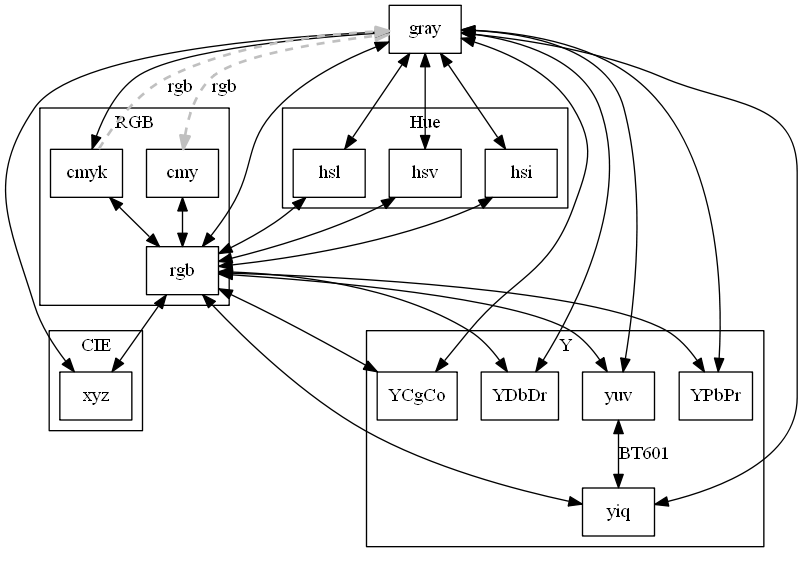
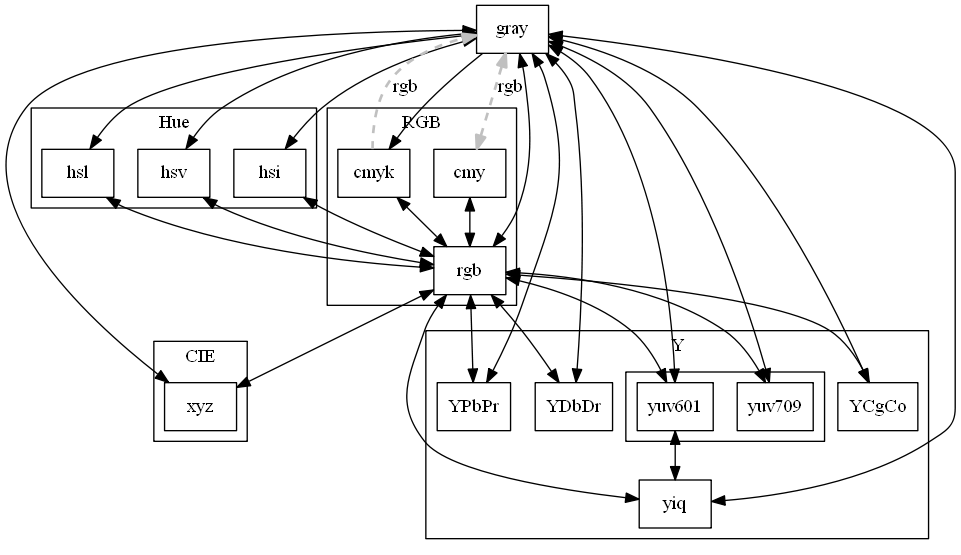
* enhance:[internal] More efficient conversion yiq <->yuv601 . * enhance:[doc] Conversion graph. Split YUV variants. * update: [internal] color.pp2f.hpp

diff --git a/src/color/color.pp2f.hpp b/src/color/color.pp2f.hpp
@@ -16109,6 +16109,9 @@ public:
 	typedef ::color::yuv< scalar_type, ::color::constant::yuv::BT_601_entity> yuv_scalar_type;
 	typedef ::color::yiq< scalar_type > yiq_scalar_type;
 
+	typedef typename yuv_scalar_type::category_type yuv_scalar_category_type;
+	typedef typename yiq_scalar_type::category_type yiq_scalar_category_type;
+
 	typedef ::color::model< yuv_category_type > yuv_model_type;
 	typedef ::color::model< yiq_category_type > yiq_model_type;
 
@@ -16120,6 +16123,9 @@ public:
 
 	typedef typename container_left_trait_type::input_type container_left_input_type;
 	typedef typename container_right_trait_type::input_const_type container_right_const_input_type;
+
+	typedef ::color::_internal::reformat< category_left_type, yuv_scalar_category_type, scalar_type > reformat_yuv_type;
+	typedef ::color::_internal::reformat< yiq_scalar_category_type, category_right_type, scalar_type > reformat_yiq_type;
 
 	enum {
 		luma_p = ::color::place::_internal::luma<category_right_type>::position_enum
@@ -16134,20 +16140,20 @@ public:
 	) {
 		static scalar_type sin_33 = sin(33 *(3.14159265358979323846 / 180));
 		static scalar_type cos_33 = cos(33 *(3.14159265358979323846 / 180));
-		yiq_scalar_type yiq{ yiq_model_type(right) };
-		scalar_type y = yiq.template get<0>();
-		scalar_type i = yiq.template get<1>();
-		scalar_type q = yiq.template get<2>();
+		scalar_type y = reformat_yiq_type::template process<0, luma_p>(container_right_trait_type::template get< luma_p>(right));
+		scalar_type i = reformat_yiq_type::template process<1, inphase_p>(container_right_trait_type::template get< inphase_p>(right));
+		scalar_type q = reformat_yiq_type::template process<2,quadrature_p>(container_right_trait_type::template get<quadrature_p>(right));
 		y = y;
 		scalar_type u = - i * sin_33 + q * cos_33;
 		scalar_type v = i * cos_33 + q * sin_33;
-		left = yuv_model_type{ yuv_scalar_type({ y, u,v }) } .container();
+		container_left_trait_type::template set<0>(left, reformat_yuv_type::template process<0,0>(y));
+		container_left_trait_type::template set<1>(left, reformat_yuv_type::template process<1,1>(u));
+		container_left_trait_type::template set<2>(left, reformat_yuv_type::template process<2,2>(v));
 	}
 };
 
 }
 }
-
 namespace color {
 namespace _internal {
 
@@ -16185,6 +16191,7 @@ public:
 		container_left_trait_type::template set<2>(left, reformat_type::template process<2,2>(container_right_trait_type::template get<2>(right)));
 	}
 };
+
 }
 }
 
@@ -23858,6 +23865,9 @@ public:
 	typedef ::color::yiq< scalar_type > yiq_scalar_type;
 	typedef ::color::yuv< scalar_type, ::color::constant::yuv::BT_601_entity> yuv_scalar_type;
 
+	typedef typename yiq_scalar_type::category_type yiq_scalar_category_type;
+	typedef typename yuv_scalar_type::category_type yuv_scalar_category_type;
+
 	typedef ::color::model< yiq_category_type > yiq_model_type;
 	typedef ::color::model< yuv_category_type > yuv_model_type;
 
@@ -23869,6 +23879,9 @@ public:
 
 	typedef typename container_left_trait_type::input_type container_left_input_type;
 	typedef typename container_right_trait_type::input_const_type container_right_const_input_type;
+
+	typedef ::color::_internal::reformat< category_left_type, yiq_scalar_category_type, scalar_type > reformat_yiq_type;
+	typedef ::color::_internal::reformat< yuv_scalar_category_type, category_right_type, scalar_type > reformat_yuv_type;
 
 	enum {
 		luma_p = ::color::place::_internal::luma<category_left_type>::position_enum
@@ -23883,14 +23896,15 @@ public:
 	) {
 		static scalar_type sin_33 = sin(33 *(3.14159265358979323846 / 180));
 		static scalar_type cos_33 = cos(33 *(3.14159265358979323846 / 180));
-		yuv_scalar_type yuv{ yuv_model_type(right) };
-		scalar_type y = yuv.template get<0>();
-		scalar_type u = yuv.template get<1>();
-		scalar_type v = yuv.template get<2>();
+		scalar_type y = reformat_yuv_type::template process<0,0>(container_right_trait_type::template get<0>(right));
+		scalar_type u = reformat_yuv_type::template process<1,1>(container_right_trait_type::template get<1>(right));
+		scalar_type v = reformat_yuv_type::template process<2,2>(container_right_trait_type::template get<2>(right));
 		y = y;
 		scalar_type i = - u * sin_33 + v * cos_33;
 		scalar_type q = u * cos_33 + v * sin_33;
-		left = yiq_model_type{ yiq_scalar_type({ y, i, q }) } .container();
+		container_left_trait_type::template set< luma_p>(left, reformat_yiq_type::template process< luma_p,0>(y));
+		container_left_trait_type::template set< inphase_p>(left, reformat_yiq_type::template process< inphase_p,1>(i));
+		container_left_trait_type::template set< quadrature_p>(left, reformat_yiq_type::template process<quadrature_p,2>(q));
 	}
 };
 

diff --git a/src/color/yuv/convert/yuv.hpp b/src/color/yuv/convert/yuv.hpp
@@ -19,43 +19,44 @@ namespace color
  {
   namespace _internal
    {
-        
+
     template
      <
        typename tag_left_name,  ::color::constant::yuv::reference_enum left_reference_number
       ,typename tag_right_name, ::color::constant::yuv::reference_enum right_reference_number
      >
      struct convert
-       <
-         ::color::category::yuv< tag_left_name,  left_reference_number >
-        ,::color::category::yuv< tag_right_name, right_reference_number>
-       >
-       {
-        public:
-          typedef ::color::category::yuv< tag_left_name , left_reference_number  > category_left_type;
-          typedef ::color::category::yuv< tag_right_name, right_reference_number > category_right_type;
+      <
+        ::color::category::yuv< tag_left_name,  left_reference_number >
+       ,::color::category::yuv< tag_right_name, right_reference_number>
+      >
+      {
+       public:
+         typedef ::color::category::yuv< tag_left_name , left_reference_number  > category_left_type;
+         typedef ::color::category::yuv< tag_right_name, right_reference_number > category_right_type;
 
-          typedef double scalar_type;
+         typedef double scalar_type;
 
-          typedef ::color::trait::container<category_left_type>     container_left_trait_type;
-          typedef ::color::trait::container<category_right_type>    container_right_trait_type;
+         typedef ::color::trait::container<category_left_type>     container_left_trait_type;
+         typedef ::color::trait::container<category_right_type>    container_right_trait_type;
 
-          typedef ::color::_internal::reformat< category_left_type, category_right_type, scalar_type >    reformat_type;
+         typedef ::color::_internal::reformat< category_left_type, category_right_type, scalar_type >    reformat_type;
 
-          typedef typename container_left_trait_type::input_type         container_left_input_type;
-          typedef typename container_right_trait_type::input_const_type  container_right_const_input_type;
+         typedef typename container_left_trait_type::input_type         container_left_input_type;
+         typedef typename container_right_trait_type::input_const_type  container_right_const_input_type;
 
-          static void process
-           (
-             container_left_input_type         left
-            ,container_right_const_input_type  right
-           )
-           {
-            container_left_trait_type::template set<0>( left, reformat_type::template process<0,0>( container_right_trait_type::template get<0>( right ) ) );
-            container_left_trait_type::template set<1>( left, reformat_type::template process<1,1>( container_right_trait_type::template get<1>( right ) ) );
-            container_left_trait_type::template set<2>( left, reformat_type::template process<2,2>( container_right_trait_type::template get<2>( right ) ) );
-           }
+         static void process
+          (
+            container_left_input_type         left
+           ,container_right_const_input_type  right
+          )
+          {
+           container_left_trait_type::template set<0>( left, reformat_type::template process<0,0>( container_right_trait_type::template get<0>( right ) ) );
+           container_left_trait_type::template set<1>( left, reformat_type::template process<1,1>( container_right_trait_type::template get<1>( right ) ) );
+           container_left_trait_type::template set<2>( left, reformat_type::template process<2,2>( container_right_trait_type::template get<2>( right ) ) );
+          }
         };
+
    }
  }
 

diff --git a/src/color/yuv/convert/yiq.hpp b/src/color/yuv/convert/yiq.hpp
@@ -2,6 +2,7 @@
 #define color_yuv_convert_yiq
 
 #include "../../_internal/convert.hpp"
+#include "../../_internal/reformat.hpp"
 
 #include "../category.hpp"
 
@@ -53,9 +54,9 @@ namespace color
         };
 
     template
-     < 
+     <
        typename yuv_tag_name
-      ,typename yiq_tag_name 
+      ,typename yiq_tag_name
      >
      struct convert
       <
@@ -69,7 +70,10 @@ namespace color
          typedef double  scalar_type;
 
          typedef ::color::yuv< scalar_type,  ::color::constant::yuv::BT_601_entity>  yuv_scalar_type;
-         typedef ::color::yiq< scalar_type > yiq_scalar_type;
+         typedef ::color::yiq< scalar_type >                                         yiq_scalar_type;
+
+         typedef typename yuv_scalar_type::category_type    yuv_scalar_category_type;
+         typedef typename yiq_scalar_type::category_type    yiq_scalar_category_type;
 
          typedef ::color::model< yuv_category_type >  yuv_model_type;
          typedef ::color::model< yiq_category_type > yiq_model_type;
@@ -82,6 +86,9 @@ namespace color
 
          typedef typename container_left_trait_type::input_type         container_left_input_type;
          typedef typename container_right_trait_type::input_const_type  container_right_const_input_type;
+
+         typedef ::color::_internal::reformat< category_left_type, yuv_scalar_category_type, scalar_type >    reformat_yuv_type;
+         typedef ::color::_internal::reformat< yiq_scalar_category_type, category_right_type, scalar_type >    reformat_yiq_type;
 
          enum
           {
@@ -99,17 +106,17 @@ namespace color
            static scalar_type sin_33 = sin( 33 *( 3.14159265358979323846 / 180 ) );
            static scalar_type cos_33 = cos( 33 *( 3.14159265358979323846 / 180 ) );
 
-           yiq_scalar_type yiq{ yiq_model_type( right ) };
-
-           scalar_type y = yiq.template get<0>();
-           scalar_type i = yiq.template get<1>();
-           scalar_type q = yiq.template get<2>();
+           scalar_type y = reformat_yiq_type::template process<0,      luma_p>( container_right_trait_type::template get<      luma_p>( right ) );
+           scalar_type i = reformat_yiq_type::template process<1,   inphase_p>( container_right_trait_type::template get<   inphase_p>( right ) );
+           scalar_type q = reformat_yiq_type::template process<2,quadrature_p>( container_right_trait_type::template get<quadrature_p>( right ) );
 
            y = y;
            scalar_type u =  - i * sin_33  +  q * cos_33;
            scalar_type v =    i * cos_33  +  q * sin_33;
 
-           left = yuv_model_type{ yuv_scalar_type( { y, u,v } ) }.container();
+           container_left_trait_type::template set<0>( left, reformat_yuv_type::template process<0,0>( y ) );
+           container_left_trait_type::template set<1>( left, reformat_yuv_type::template process<1,1>( u ) );
+           container_left_trait_type::template set<2>( left, reformat_yuv_type::template process<2,2>( v ) );
           }
         };
 

diff --git a/src/color/yiq/convert/yuv.hpp b/src/color/yiq/convert/yuv.hpp
@@ -69,8 +69,11 @@ namespace color
          typedef ::color::category::yuv< yuv_tag_name, ::color::constant::yuv::BT_601_entity >    yuv_category_type, category_right_type;
          typedef double scalar_type;
 
-         typedef ::color::yiq< scalar_type >  yiq_scalar_type;
+         typedef ::color::yiq< scalar_type >                                         yiq_scalar_type;
          typedef ::color::yuv< scalar_type,  ::color::constant::yuv::BT_601_entity>  yuv_scalar_type;
+
+         typedef typename yiq_scalar_type::category_type    yiq_scalar_category_type;
+         typedef typename yuv_scalar_type::category_type    yuv_scalar_category_type;
 
          typedef ::color::model< yiq_category_type > yiq_model_type;
          typedef ::color::model< yuv_category_type >  yuv_model_type;
@@ -83,6 +86,9 @@ namespace color
 
          typedef typename container_left_trait_type::input_type         container_left_input_type;
          typedef typename container_right_trait_type::input_const_type  container_right_const_input_type;
+
+         typedef ::color::_internal::reformat< category_left_type, yiq_scalar_category_type, scalar_type >    reformat_yiq_type;
+         typedef ::color::_internal::reformat< yuv_scalar_category_type, category_right_type, scalar_type >    reformat_yuv_type;
 
          enum
           {
@@ -100,17 +106,17 @@ namespace color
            static scalar_type sin_33 = sin( 33 *( 3.14159265358979323846 / 180 ) );
            static scalar_type cos_33 = cos( 33 *( 3.14159265358979323846 / 180 ) );
 
-           yuv_scalar_type yuv{ yuv_model_type( right ) };
-
-           scalar_type y = yuv.template get<0>();
-           scalar_type u = yuv.template get<1>();
-           scalar_type v = yuv.template get<2>();
+           scalar_type y = reformat_yuv_type::template process<0,0>( container_right_trait_type::template get<0>( right ) );
+           scalar_type u = reformat_yuv_type::template process<1,1>( container_right_trait_type::template get<1>( right ) );
+           scalar_type v = reformat_yuv_type::template process<2,2>( container_right_trait_type::template get<2>( right ) );
 
            y = y;
            scalar_type i =  - u * sin_33  +  v * cos_33;
            scalar_type q =    u * cos_33  +  v * sin_33;
 
-           left = yiq_model_type{ yiq_scalar_type( { y, i, q } ) }.container();
+           container_left_trait_type::template set<       luma_p>( left, reformat_yiq_type::template process<      luma_p,0>( y ) );
+           container_left_trait_type::template set<    inphase_p>( left, reformat_yiq_type::template process<   inphase_p,1>( i ) );
+           container_left_trait_type::template set< quadrature_p>( left, reformat_yiq_type::template process<quadrature_p,2>( q ) );
           }
         };
 

diff --git a/src/color/yuv/convert/YPbPr.hpp b/src/color/yuv/convert/YPbPr.hpp
@@ -15,10 +15,10 @@ namespace color
    {
 
     template
-      <
-        typename yuv_tag_name,    ::color::constant::yuv::reference_enum yuv_reference_number
-       ,typename YPbPr_tag_name,  ::color::constant::YPbPr::reference_enum YPbPr_reference_number
-      >
+     <
+       typename yuv_tag_name,    ::color::constant::yuv::reference_enum yuv_reference_number
+      ,typename YPbPr_tag_name,  ::color::constant::YPbPr::reference_enum YPbPr_reference_number
+     >
      struct convert
       <
         ::color::category::yuv<      yuv_tag_name,   yuv_reference_number >
